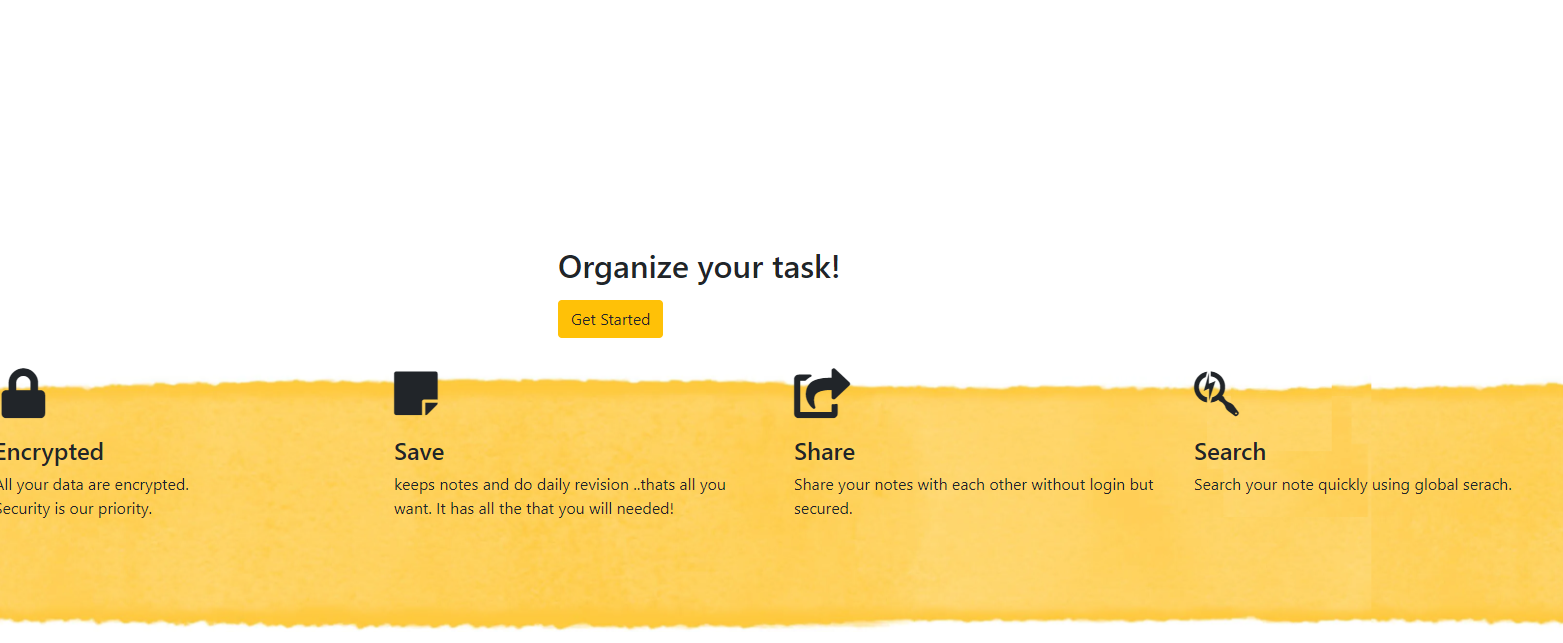
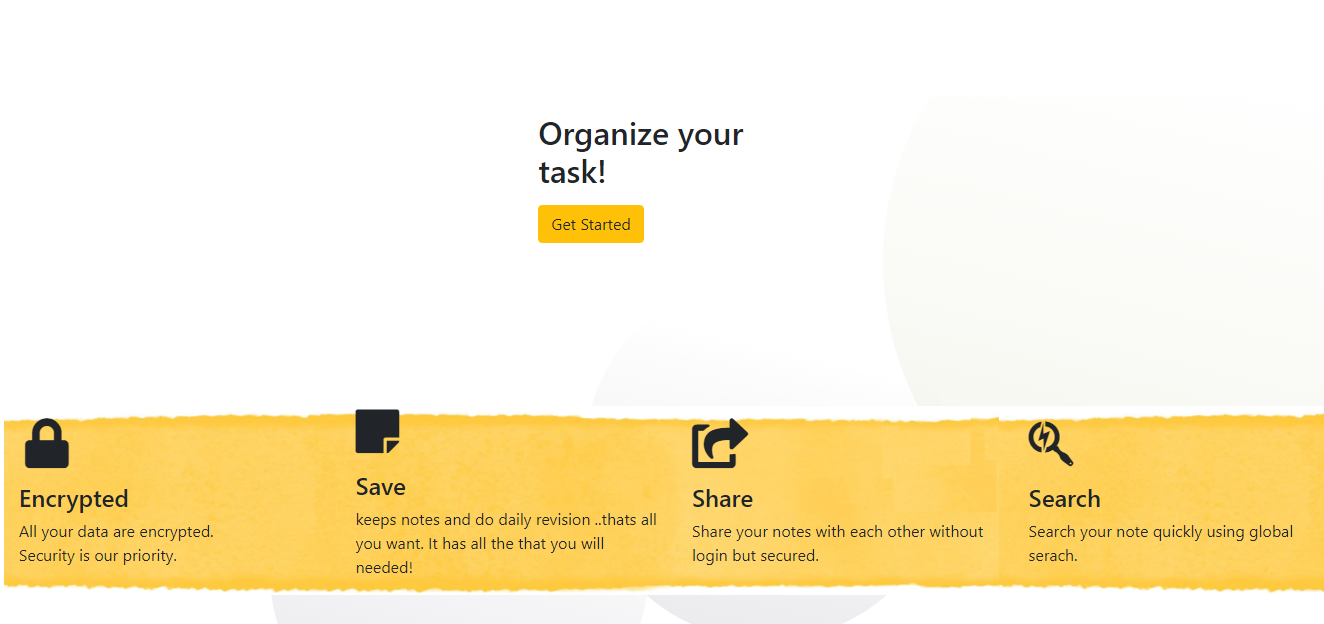
readme

Changed region(s): [[0.0, 0.5785, 1.0, 1.0], [0.3406, 0.1827, 0.5574, 0.5481], [0.7742, 0.7917, 0.8361, 0.8221]]

diff --git a/projects/templates/projects/registration/login.html b/projects/templates/projects/registration/login.html
@@ -15,6 +15,28 @@
  .custom-box {
     margin: auto;
 }
+.big-circle {
+    position: absolute;
+    top: 0px;
+    right: 0px;
+    z-index: -1;
+    opacity: 0.5;
+    height: 80%;
+}
+.medium-circle {
+    position: absolute;
+    top: 30%;
+    right: 30%;
+    z-index: -1;
+    height: 60%;
+    opacity: 0.4;
+}
+.small-circle {
+    position: absolute;
+    bottom: 0%;
+    left: 20%;
+    z-index: -1;
+}
 </style> 
    
 </head>
@@ -93,7 +115,9 @@ transform: translate(-50%,-50%);">
 	</div>
 </div>
 <!--end login-->
-  
+<img class="big-circle" src="{% static 'img/big-eclipse.svg' %}" alt="" />
+<img class="medium-circle" src="{% static 'img/mid-eclipse.svg' %}" alt="" />
+<img class="small-circle" src="{% static 'img/small-eclipse.svg' %}" alt="" />  
          
         
    

diff --git a/api/views.py b/api/views.py
@@ -137,7 +137,7 @@ class CommentsofTheDay(APIView):
                 'api/revision_items.html', {'items': object_list,
                                             'domain': domain})
             email = EmailMessage('Revision Items of the day ',
-                                 html_message, to=['mailtodanish@gmail.com'])
+                                 html_message, to=[request.user.email, ])
             email.content_subtype = "html"
             email.send()
             return Response("Success")

diff --git a/README.md b/README.md
@@ -1,45 +1,44 @@
 ## Daily-To-Do-Task-Managment
-<p><a href="https://python.org/" rel="nofollow"><img src="https://camo.githubusercontent.com/364d2f6ca896e34a655a6d1befbfea9553f850c6/68747470733a2f2f696d672e736869656c64732e696f2f62616467652f707974686f6e2d332e372d627269676874677265656e2e737667" alt="Python Version" data-canonical-src="https://img.shields.io/badge/python-3.7-brightgreen.svg"></a>&nbsp;<a href="https://djangoproject.com/" rel="nofollow"><img src="https://camo.githubusercontent.com/0195f9a2e578ffdfe82ca3f237e278da19a65041/68747470733a2f2f696d672e736869656c64732e696f2f62616467652f646a616e676f2d322e312d627269676874677265656e2e737667" alt="Django Version" data-canonical-src="https://img.shields.io/badge/django-2.1-brightgreen.svg"></a>&nbsp;<a href="https://www.django-rest-framework.org/" rel="nofollow"><img src="https://camo.githubusercontent.com/9e7a0c32ba4dee9a8a54045a3f596248b26b5666/68747470733a2f2f696d672e736869656c64732e696f2f62616467652f646a616e676f726573746672616d65776f726b2d332e392d627269676874677265656e2e737667" alt="Django Rest Framework Version" data-canonical-src="https://img.shields.io/badge/djangorestframework-3.9-brightgreen.svg"></a></p>
 
-Based on Djanago , secure and shareable.  Add daily activities , schedule your activity and add notes to do revision. 
+
+Based on Djanago , secure and shareable.  Add daily activities , schedule your activity and add notes to do revision.
+
 1. Add your notes to keep them fopr future use and you can revise them.
-2. Add activities , Schedule activities
 
+2. Add activities , Schedule activities
 
 # Running the Project Locally
 
 Create pipenv and install all dependencies.
+
 ```bash
-$ pip install pipenv
+pip install pipenv
 
 $ pipenv install
 
 $ pipenv shell
 ```
+
 First, clone the repository to your local machine:
 
-### git clone https://github.com/mailtodanish/Daily-To-Do-Task-Managment.git
+``` git clone https://github.com/mailtodanish/Daily-To-Do-Task-Managment.git ```
 
 Install the requirements:
 
 Apply the migrations:
 
 dont forget to load applictaion data.
-```bash
+
+``` 
 python manage.py migrate
-
 python manage.py createsuperuser
-
-python manage.py loaddata ApplictaionData.json
+python manage.py loaddata ApplictaionData.json 
 ```
+
 Update your Secrate Key in seting.py
-
 Finally, run the development server:
-
 python manage.py runserver
 
 ### Screen Shot
-
 ![Image](img/screen_shot1.png)
 ![Image](img/screen_shot2.png)
-
